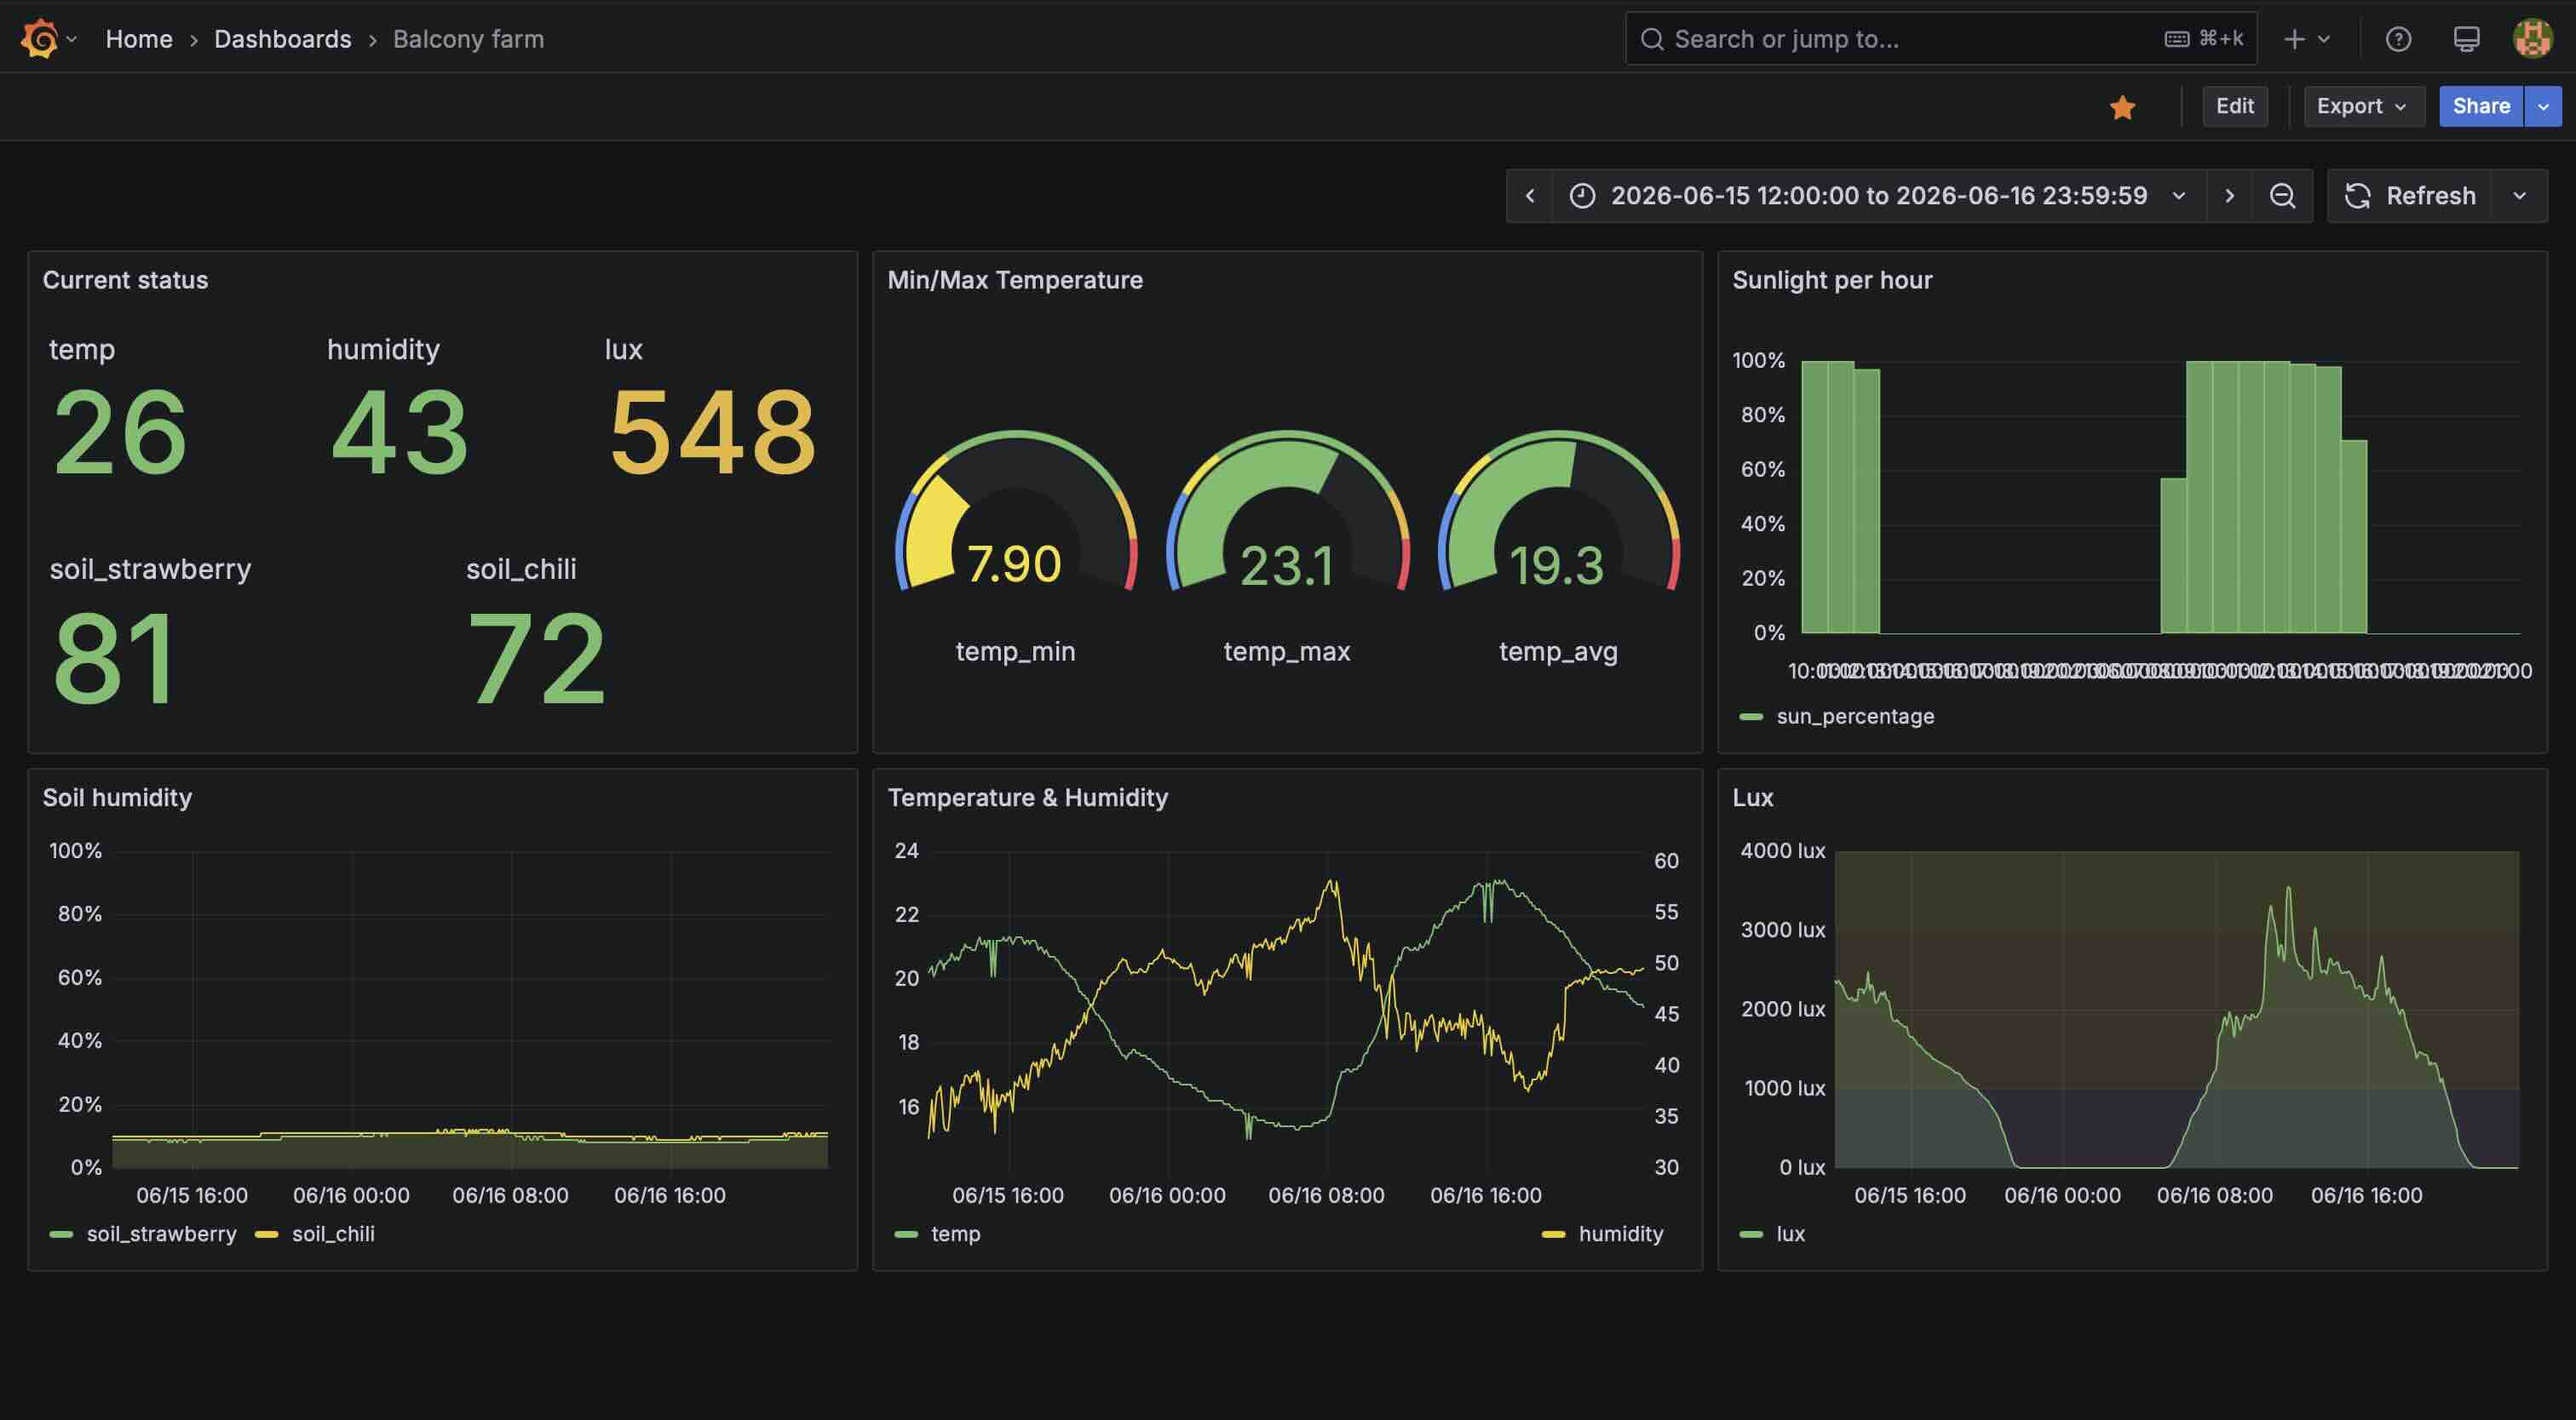
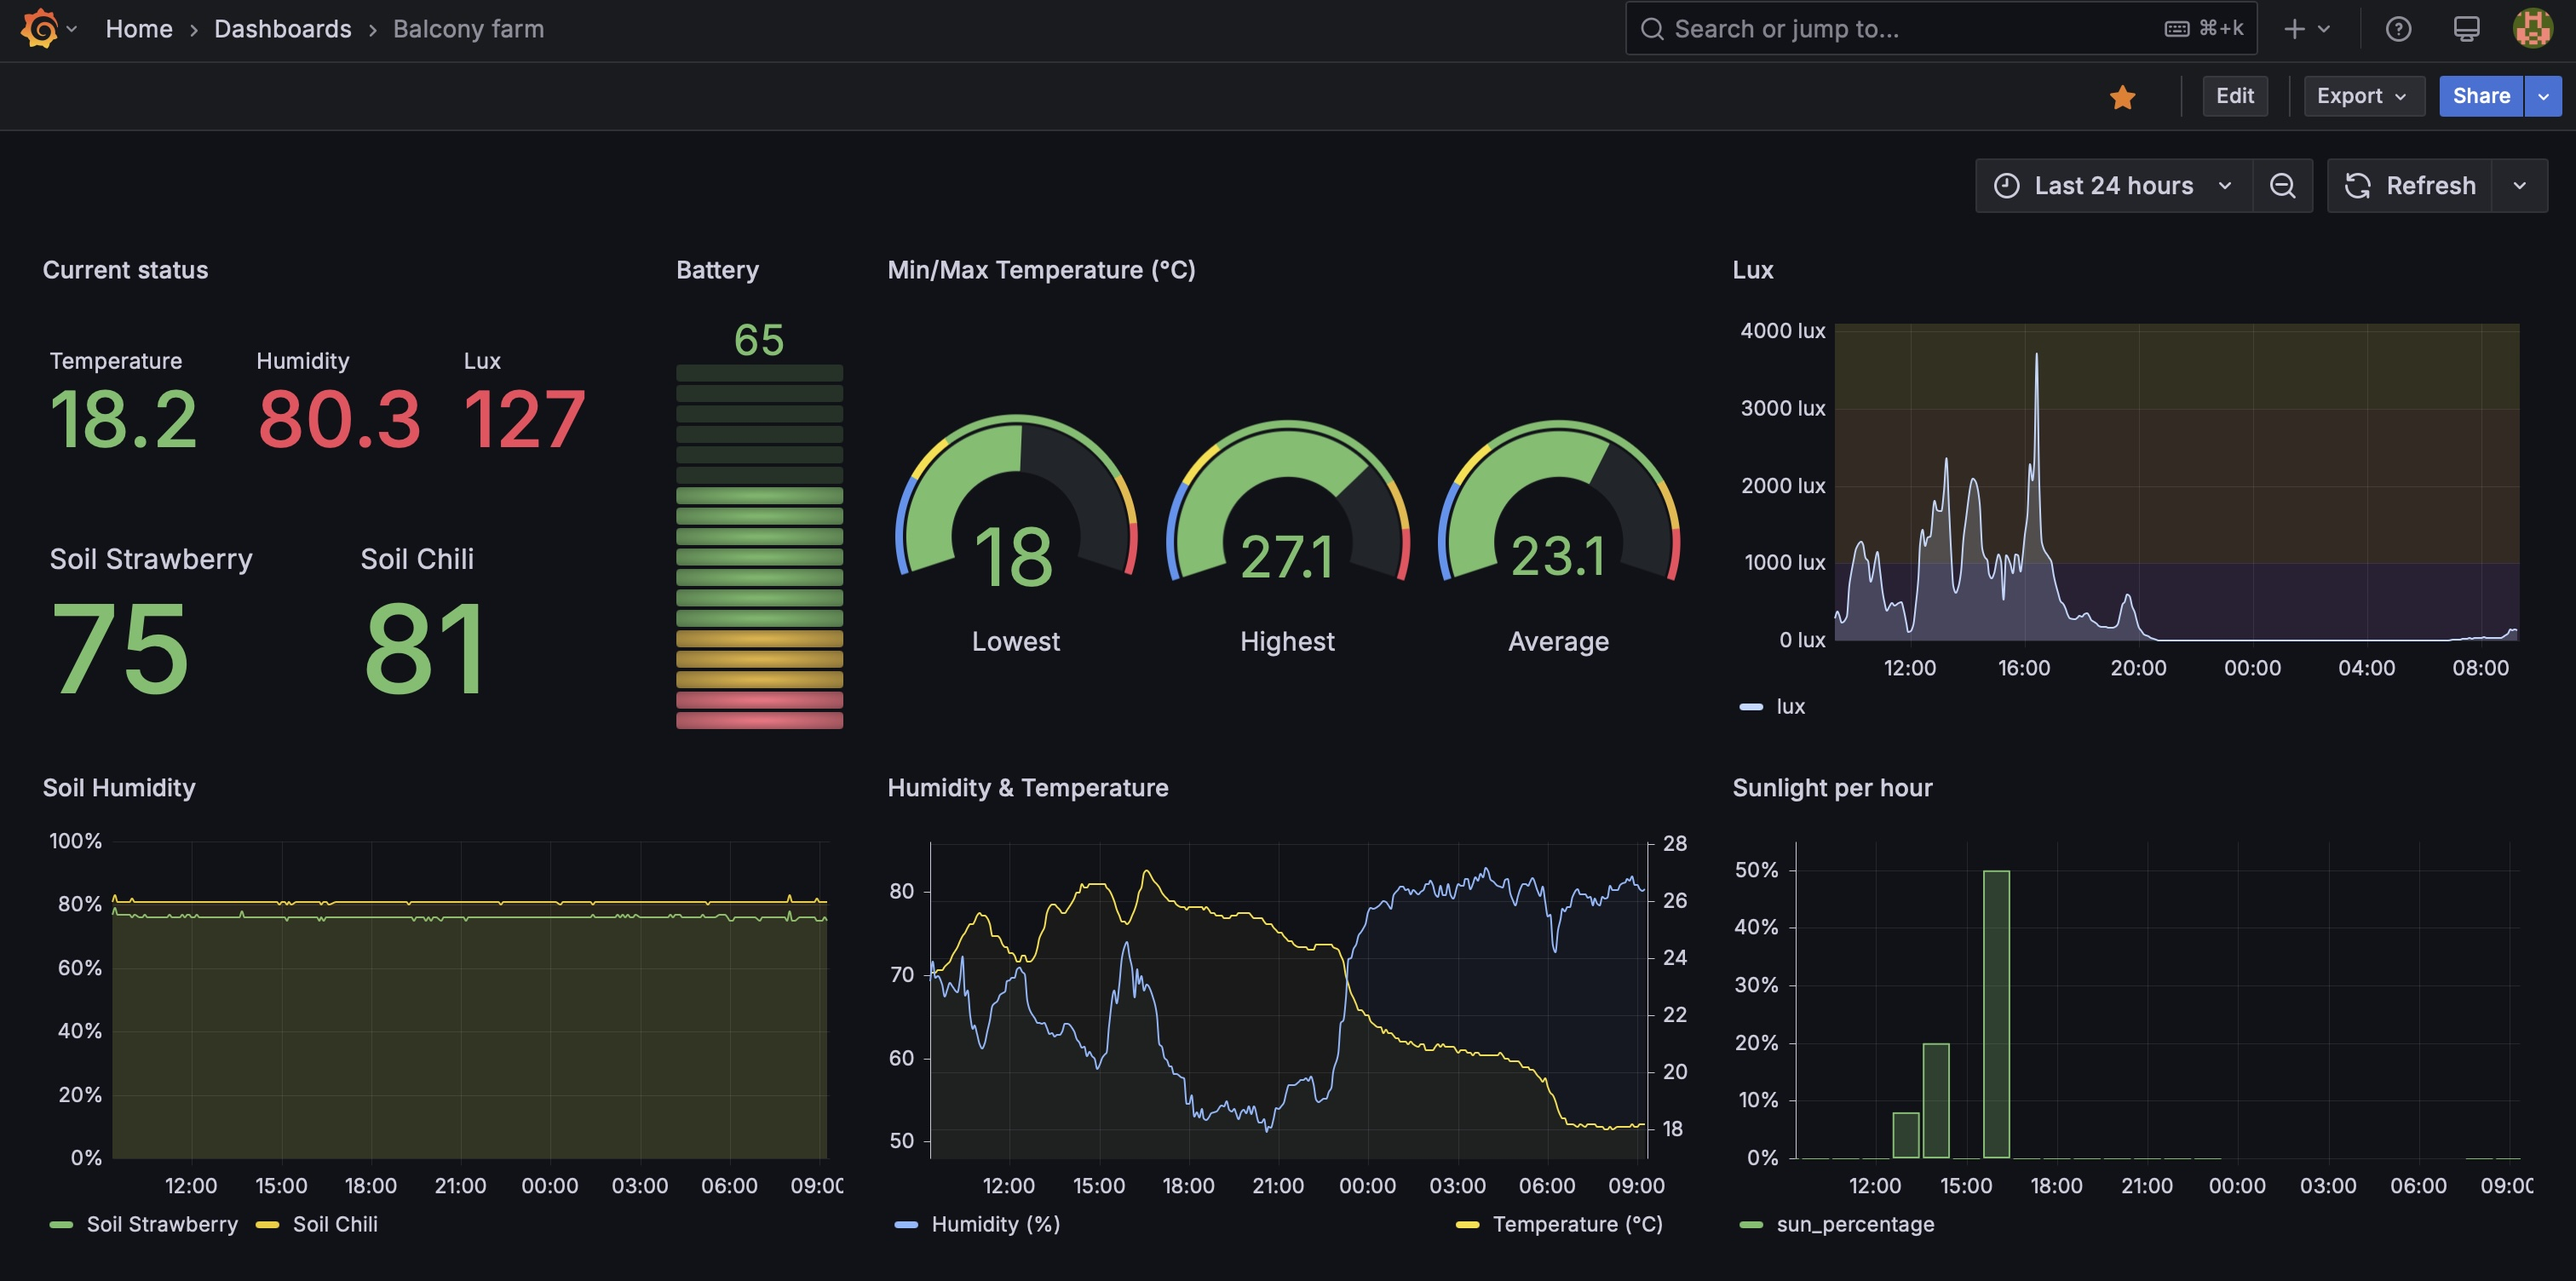
README and docs update

diff --git a/README.md b/README.md
@@ -4,7 +4,7 @@ Real-time environmental monitoring system for balcony grown strawberries and chi
 
 ## What is this
 
-An IoT data pipeline that reads temperature, humidity, soil moisture, and light intensity from live plants on a balcony, pushes data over MQTT and visualizes everything in Grafana with alerting.
+An IoT data pipeline that reads temperature, humidity, soil moisture, and light intensity from live plants on a balcony, pushes telemetry data over MQTT and visualizes everything in Grafana with alerting.
 Built as a hands-on learning project exploring Controlled Environment Agriculture (CEA), from a humble balcony garden.
 
 ## Objective
@@ -26,19 +26,24 @@ Arduino ESP32 + Sensors -> WiFi -> Mosquitto (MQTT) -> Telegraf -> TimescaleDB -
 
 ### Hardware
 
+Yuyo_01 in all its glory with Ikea tupper cover case, solar fed battery and OLED display to show current metrics. It can be then hermetically sealed against weather and ants... And the best thing, it's hands-free, once it has sunlight it'll just work.
+
+Balcony farm with Yuyo_01 installed
+
+![ESP32 Setup](docs/esp32-setup-v01.jpeg)
+
+Yuyo_01 device close-up and wiring
+
+![ESP32 with sensors](docs/esp-32-wiring.jpeg)
+
 - Arduino ABX00083 Board Nano ESP32
 - Purecrea BH1750 GY-302 Digital Light Sensor
 - Purecrea DHT22 Temperature and Humidity Sensor
 - 2x Purecrea Capacitive soil moisture sensor V1.2
-- 10.000 mAh Battery 
-
-Yuyo_01 in all its glory with Ikea tupper cover case, it can be then hermetically sealed against weather and ants...
-
-![Breadboard wiring](docs/breadboard-wiring.jpeg)
-
-Balcony farm with yuyo_01 installed
-
-![ESP32 with sensors](docs/esp32-setup.jpeg)
+- DFRobot Solarpanel 6W
+- TC-13220688 Battery shield
+- Purecrea TP4056 Lithium LiPo Battery Charger
+- Ansmann Li-Ion battery 18650
 
 ### Software stack
 
@@ -58,8 +63,9 @@ Balcony farm with yuyo_01 installed
 - GitHub Actions CI/CD (for builds and tests) In progress.
 - IaC for cloud hosting Mosquitto (24/7 log capture). Done.
 - TLS + auth for MQTT broker exposed to internet. Done.
+- Feed battery with solar power. Done.
+- OLED Display showing current telemetry. Done.
 - Migrate to K3s with Helm charts
-- Feed battery with solar power
 - Trigger automated watering for defined humidity thresholds
 - Camera module to track plant growth progress
 - Expand metrics captured, like soil pH
@@ -70,7 +76,7 @@ Balcony farm with yuyo_01 installed
 
 A few choices worth explaining:
 
-NLB instead of ALB: Two reasons. First I decided to have a single entry point for both yuyo_01 posting metrics and accessing the Grafana dashboard to keep the architecture simple. Then let the LB route traffic. Second, because MQTT is TCP native while ALBs only speak HTTP/HTTPS. NLBs handle raw TCP and can terminate TLS.
+NLB instead of ALB: Two reasons. First I decided to have a single entry point for both Yuyo_01 posting metrics and accessing the Grafana dashboard to keep the architecture simple. Then let the LB route traffic. Second, because MQTT is TCP native while ALBs only speak HTTP/HTTPS. NLBs handle raw TCP and can terminate TLS.
 
 TimescaleDB instead of plain Postgres: Sensor data is heavily time-series. TimescaleDB's hypertables handle this with automatic partitioning and faster query speed compared to Postgres.
 
